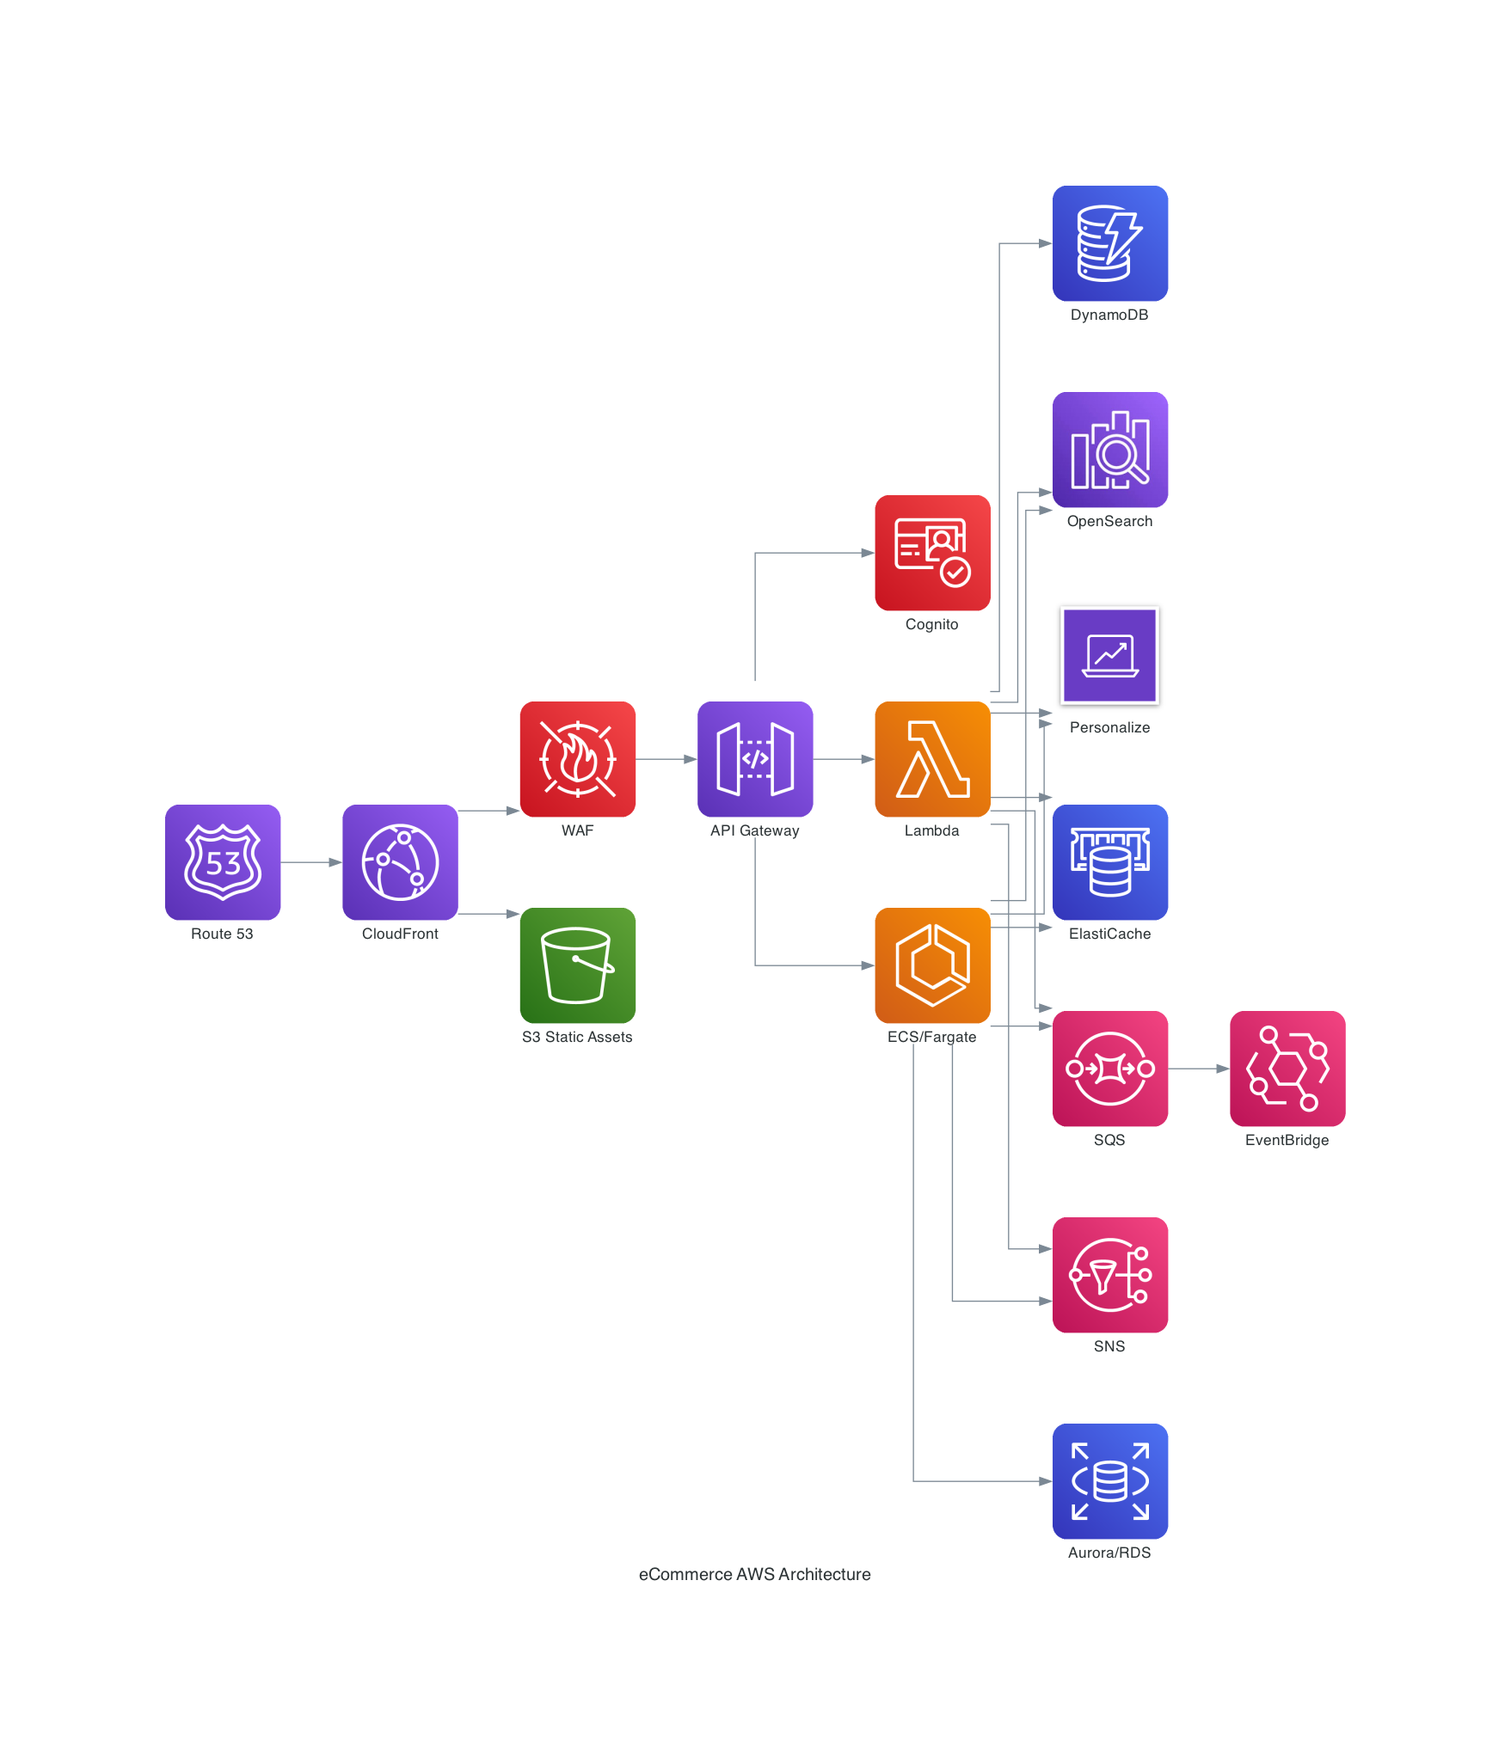
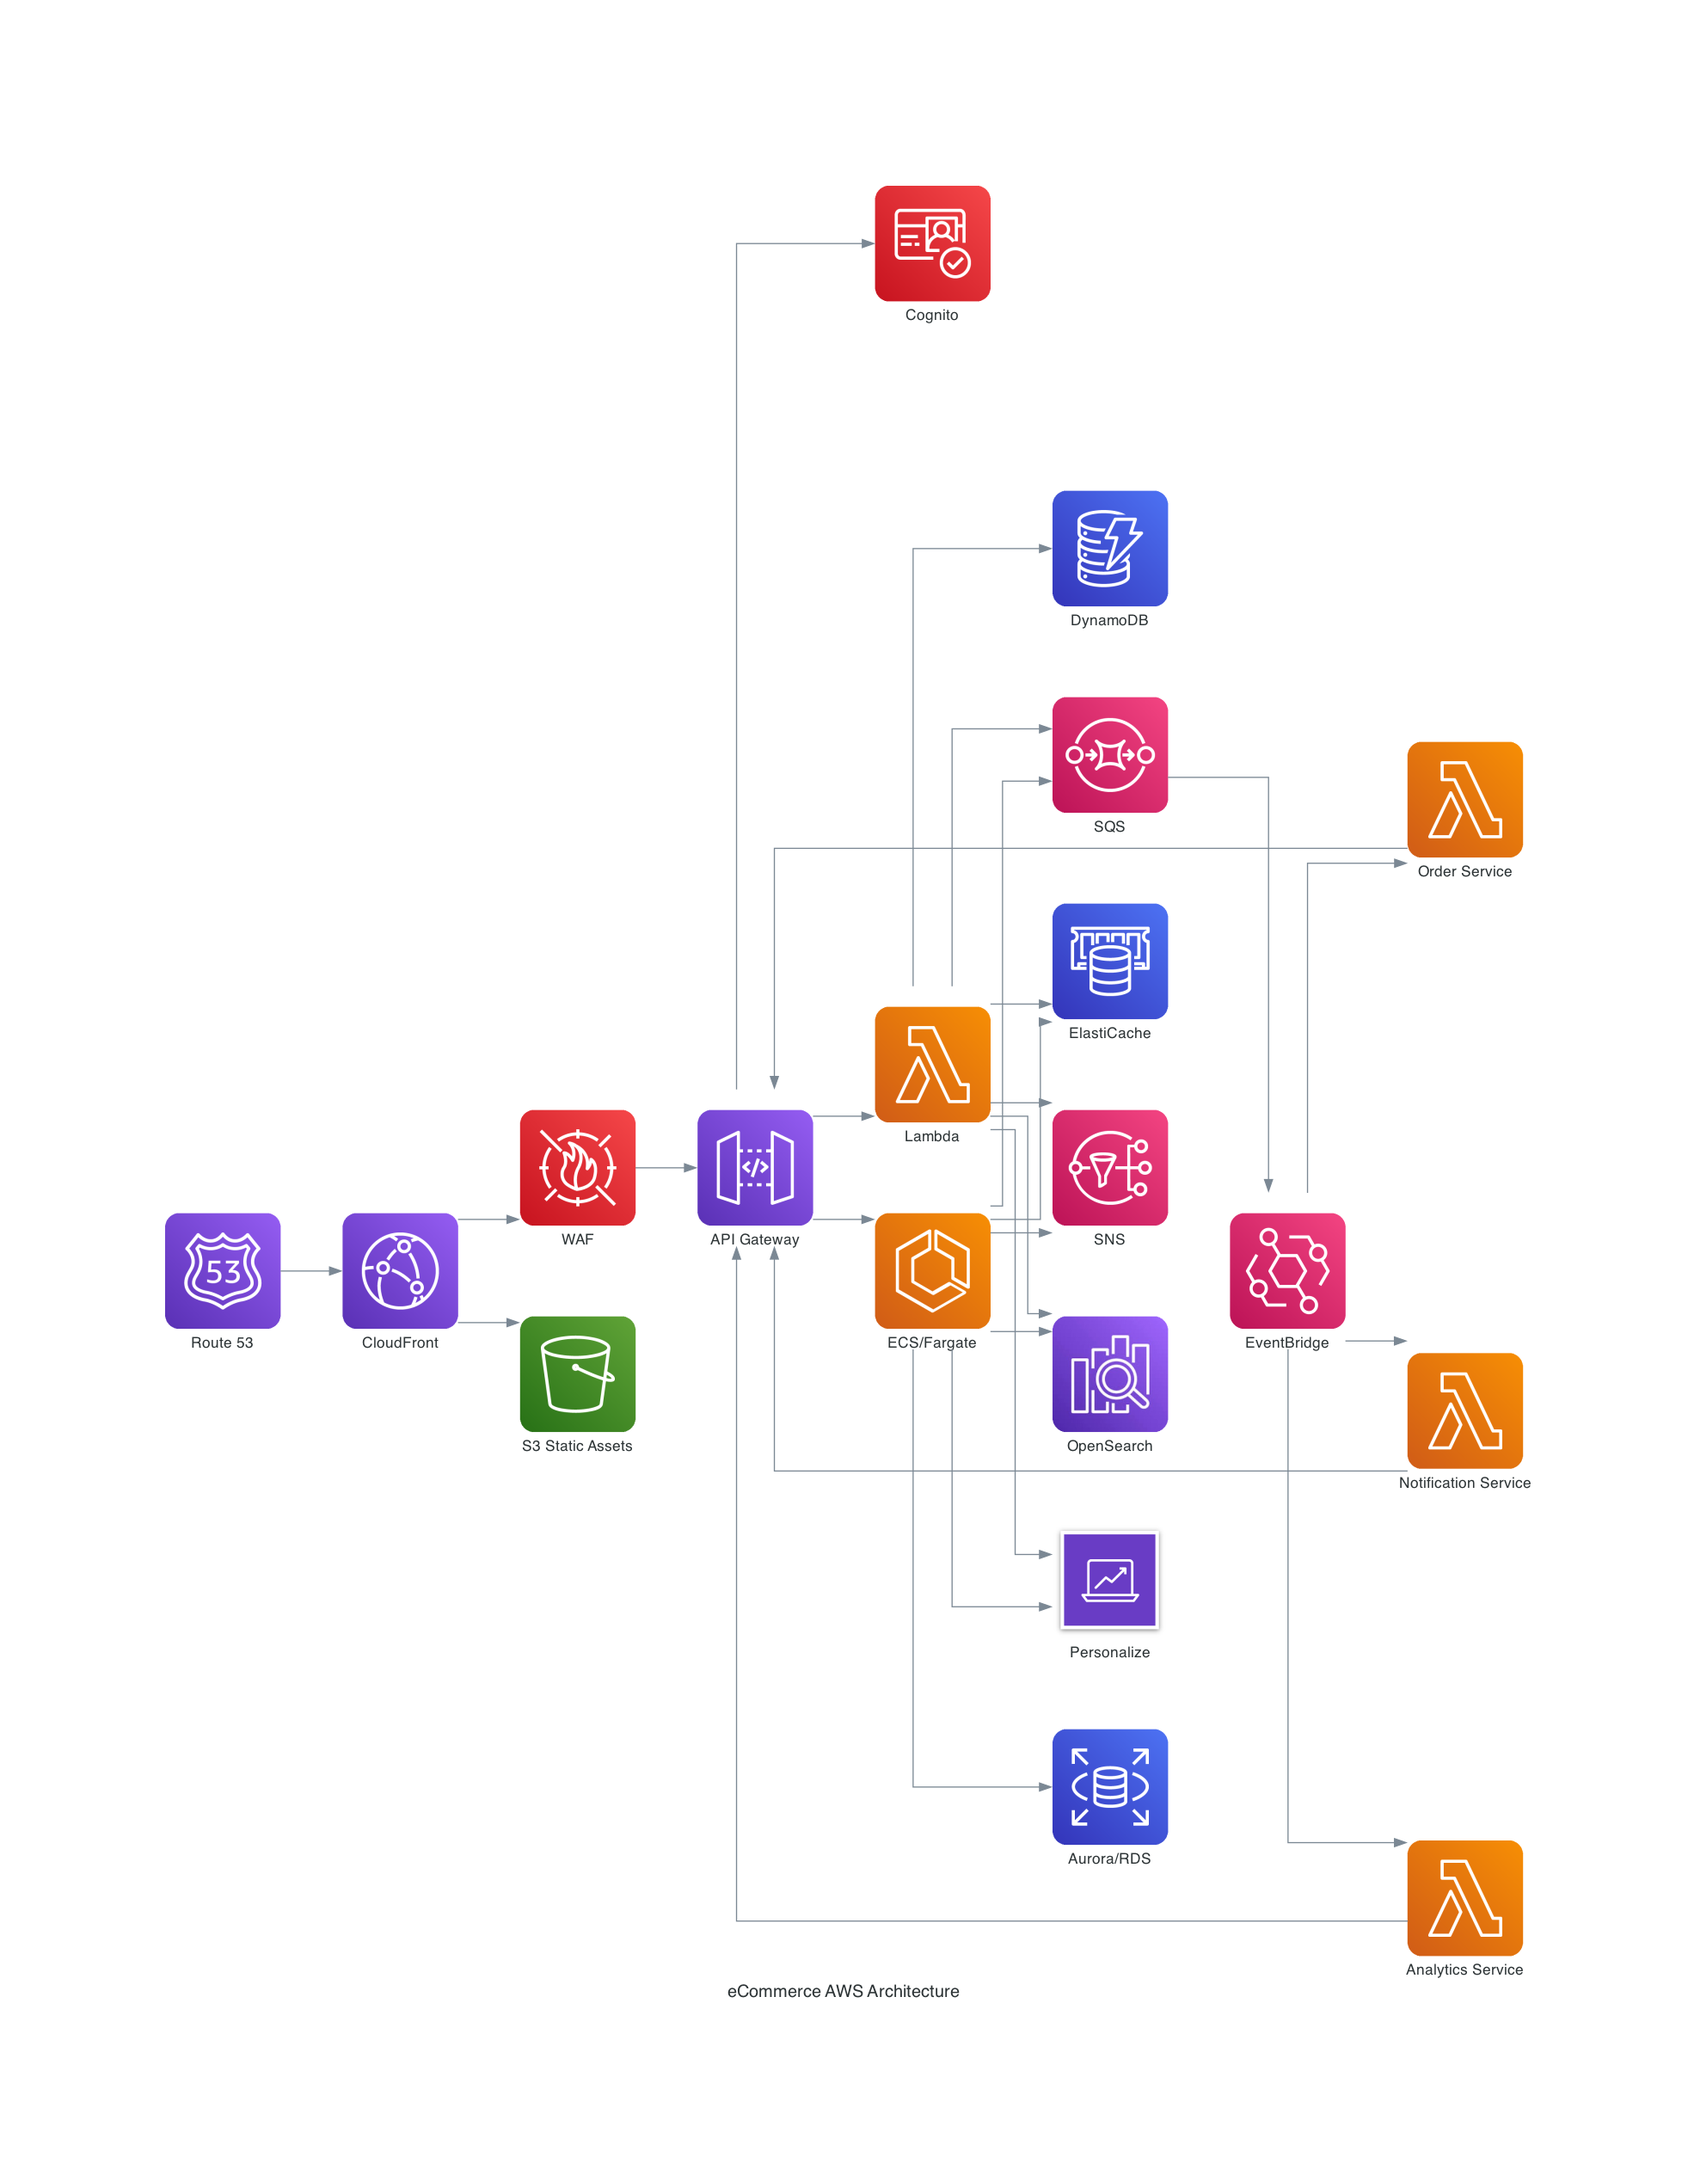
Add FrontEnd and Knowledge Base

diff --git a/frontend/src/pages/ProductList.js b/frontend/src/pages/ProductList.js
@@ -1,0 +1,24 @@
+import React from "react";
+
+const mockProducts = [
+  { id: 1, name: "Product A", description: "Description for product A", price: 19.99 },
+  { id: 2, name: "Product B", description: "Description for product B", price: 29.99 },
+  { id: 3, name: "Product C", description: "Description for product C", price: 39.99 },
+];
+
+export default function ProductList() {
+  return (
+    <div>
+      <h2>Product List</h2>
+      <ul>
+        {mockProducts.map((product) => (
+          <li key={product.id}>
+            <h3>{product.name}</h3>
+            <p>{product.description}</p>
+            <p>Price: ${product.price}</p>
+          </li>
+        ))}
+      </ul>
+    </div>
+  );
+}

diff --git a/frontend/src/App.js b/frontend/src/App.js
@@ -1,0 +1,21 @@
+import React from "react";
+import { BrowserRouter as Router, Routes, Route, Link } from "react-router-dom";
+import Home from "./pages/Home";
+import ProductList from "./pages/ProductList";
+
+function App() {
+  return (
+    <Router>
+      <nav style={{ padding: "1rem", background: "#f0f0f0" }}>
+        <Link to="/" style={{ marginRight: 10 }}>Home</Link>
+        <Link to="/products">Products</Link>
+      </nav>
+      <Routes>
+        <Route path="/" element={<Home />} />
+        <Route path="/products" element={<ProductList />} />
+      </Routes>
+    </Router>
+  );
+}
+
+export default App;

diff --git a/frontend/src/index.js b/frontend/src/index.js
@@ -1,0 +1,11 @@
+import React from "react";
+import ReactDOM from "react-dom/client";
+import App from "./App";
+import "./index.css";
+
+const root = ReactDOM.createRoot(document.getElementById("root"));
+root.render(
+  <React.StrictMode>
+    <App />
+  </React.StrictMode>
+);

diff --git a/frontend/src/pages/Home.js b/frontend/src/pages/Home.js
@@ -1,0 +1,10 @@
+import React from "react";
+
+export default function Home() {
+  return (
+    <div>
+      <h1>Welcome to the eCommerce Store</h1>
+      <p>Browse our products and enjoy your shopping experience!</p>
+    </div>
+  );
+}

diff --git a/diagrams/architecture.py b/diagrams/architecture.py
@@ -7,9 +7,13 @@ from diagrams.aws.database import Dynamodb, RDS, ElastiCache
 from diagrams.aws.integration import SQS, SNS, Eventbridge
 from diagrams.aws.security import Cognito
 from diagrams.aws.analytics import AmazonOpensearchService, Analytics
+
+# Custom nodes for microservices
+from diagrams.generic.blank import Blank
 from diagrams.aws.network import APIGateway
 
 with Diagram("eCommerce AWS Architecture", show=False, filename="architecture_diagram", outformat="png"):
+
     route53 = Route53("Route 53")
     cloudfront = CloudFront("CloudFront")
     waf = WAF("WAF")
@@ -27,9 +31,19 @@ with Diagram("eCommerce AWS Architecture", show=False, filename="architecture_di
     opensearch = AmazonOpensearchService("OpenSearch")
     personalize = Analytics("Personalize")
 
+    # Microservice nodes (using Lambda icons for each)
+    order_svc = Lambda("Order Service")
+    notification_svc = Lambda("Notification Service")
+    analytics_svc = Lambda("Analytics Service")
+
     route53 >> cloudfront >> waf >> apigw
     cloudfront >> s3
     apigw >> [lambda_fn, ecs, cognito]
     lambda_fn >> [dynamodb, elasticache, sqs, sns, opensearch, personalize]
     ecs >> [rds, elasticache, sqs, sns, opensearch, personalize]
     sqs >> eventbridge
+    eventbridge >> [order_svc, notification_svc, analytics_svc]
+    # Response flows back to API Gateway
+    order_svc >> apigw
+    notification_svc >> apigw
+    analytics_svc >> apigw

diff --git a/KNOWLEDGE_BASE.md b/KNOWLEDGE_BASE.md
@@ -1,0 +1,50 @@
+# eCommerce Project Knowledge Base
+
+## Summary of Architecture & Decisions
+
+- **Cloud Provider:** AWS
+- **Frontend:** React (scaffolded in `frontend/`)
+- **Backend:** Microservices using FastAPI (Python), each in its own directory under `backend/`
+- **Infrastructure as Code:** Terraform modules in `infra/terraform/`
+- **Architecture Diagram:** Python script in `diagrams/architecture.py` (generates PNG for documentation)
+- **Microservices Responsibilities:** Documented in `services/README.md`
+
+## Key AWS Services Used
+- Route 53 (DNS)
+- CloudFront (CDN)
+- S3 (static assets)
+- WAF (web firewall)
+- API Gateway (REST entrypoint)
+- Cognito (user management)
+- Lambda & ECS/Fargate (compute)
+- DynamoDB (NoSQL)
+- Aurora/RDS (relational DB)
+- ElastiCache (caching)
+- SQS/SNS/EventBridge (messaging/integration)
+- OpenSearch (search)
+- Personalize (recommendations)
+
+## Decisions & Rationale
+- **Microservices:** Each core domain (product, cart, order, payment, etc.) is a separate FastAPI service for scalability and maintainability.
+- **Frontend:** React chosen for flexibility and ecosystem; can be deployed to S3/CloudFront.
+- **Infra as Code:** Terraform for reproducible, versioned AWS infrastructure.
+- **Documentation:** Architecture diagram is generated and linked in root and services README.
+
+## Setup Steps
+1. Generate the architecture diagram:
+   ```bash
+   pip install diagrams
+   python diagrams/architecture.py
+   ```
+2. Start backend microservices (see each backend/*/README or main.py).
+3. Start frontend:
+   ```bash
+   cd frontend
+   npm install
+   npm start
+   ```
+4. See root README.md for project navigation.
+
+---
+
+This file summarizes all major architectural and technical decisions for onboarding and future reference.
